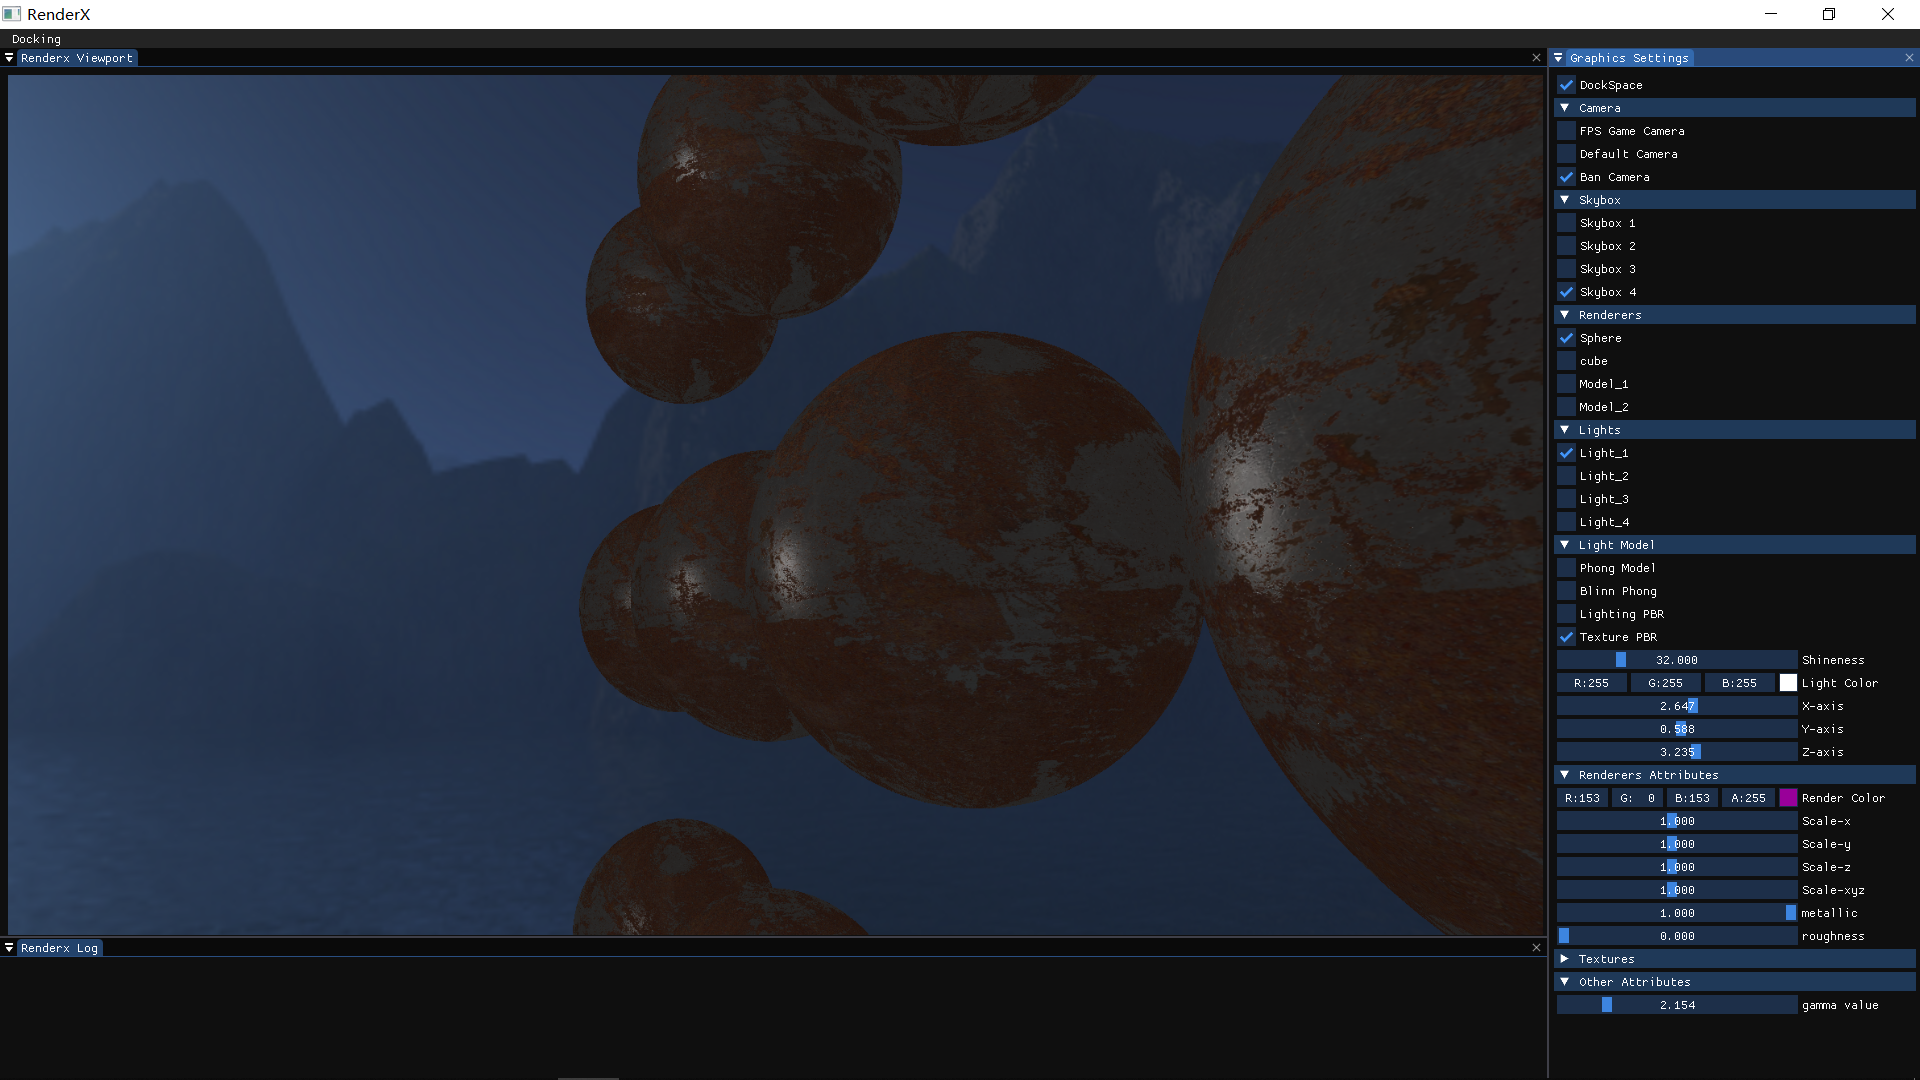
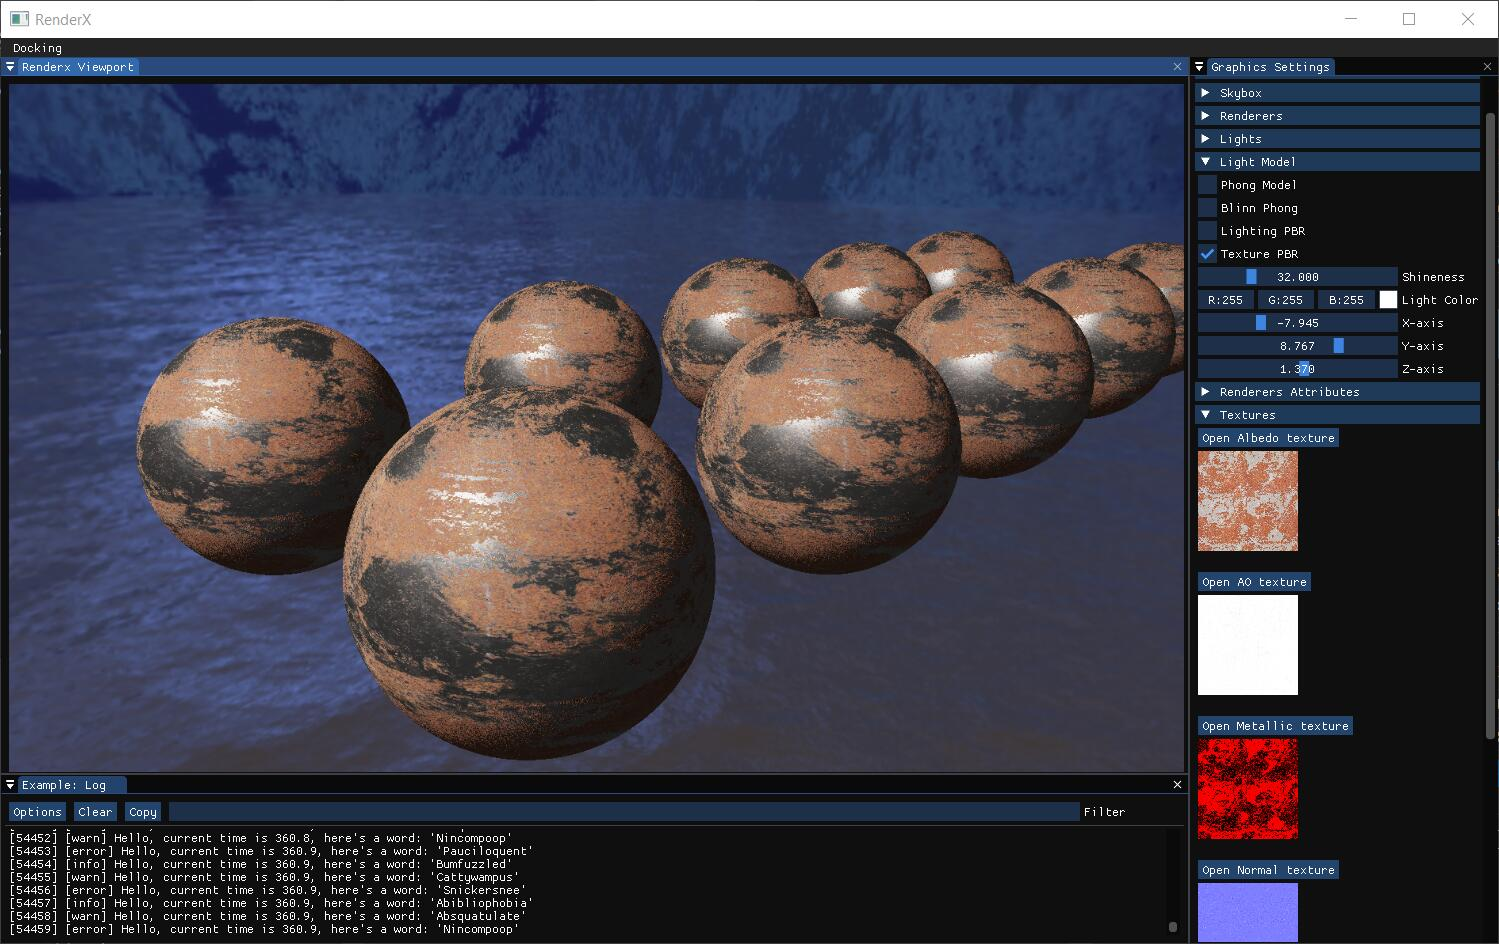
change screenshots and imguilog initialization

diff --git a/RenderX/include/utils/Log.h b/RenderX/include/utils/Log.h
@@ -2,13 +2,158 @@
 #include <iostream>
 #include <string>
 #include <stdarg.h>
+#include "..//..//Core.h"
 
 namespace renderx {
 	namespace utils {
+		struct AppLog
+		{
+			ImGuiTextBuffer     Buf;
+			ImGuiTextFilter     Filter;
+			ImVector<int>       LineOffsets;        // Index to lines offset. We maintain this with AddLog() calls, allowing us to have a random access on lines
+			bool                AutoScroll;     // Keep scrolling if already at the bottom
+
+			AppLog()
+			{
+				AutoScroll = true;
+				Clear();
+			}
+
+			void Clear()
+			{
+				Buf.clear();
+				LineOffsets.clear();
+				LineOffsets.push_back(0);
+			}
+
+			void AddLog(const char* fmt, ...) IM_FMTARGS(2)
+			{
+				int old_size = Buf.size();
+				va_list args;
+				va_start(args, fmt);
+				Buf.appendfv(fmt, args);
+				va_end(args);
+				for (int new_size = Buf.size(); old_size < new_size; old_size++)
+					if (Buf[old_size] == '\n')
+						LineOffsets.push_back(old_size + 1);
+			}
+
+
+			void Draw(const char* title, bool* p_open = NULL)
+			{
+				if (!ImGui::Begin(title, p_open))
+				{
+					ImGui::End();
+					return;
+				}
+
+				// Options menu
+				if (ImGui::BeginPopup("Options"))
+				{
+					ImGui::Checkbox("Auto-scroll", &AutoScroll);
+					ImGui::EndPopup();
+				}
+
+				// Main window
+				if (ImGui::Button("Options"))
+					ImGui::OpenPopup("Options");
+				ImGui::SameLine();
+				bool clear = ImGui::Button("Clear");
+				ImGui::SameLine();
+				bool copy = ImGui::Button("Copy");
+				ImGui::SameLine();
+				Filter.Draw("Filter", -100.0f);
+
+				ImGui::Separator();
+				ImGui::BeginChild("scrolling", ImVec2(0, 0), false, ImGuiWindowFlags_HorizontalScrollbar);
+
+				if (clear)
+					Clear();
+				if (copy)
+					ImGui::LogToClipboard();
+
+				ImGui::PushStyleVar(ImGuiStyleVar_ItemSpacing, ImVec2(0, 0));
+				const char* buf = Buf.begin();
+				const char* buf_end = Buf.end();
+				if (Filter.IsActive())
+				{
+					// In this example we don't use the clipper when Filter is enabled.
+					// This is because we don't have a random access on the result on our filter.
+					// A real application processing logs with ten of thousands of entries may want to store the result of search/filter.
+					// especially if the filtering function is not trivial (e.g. reg-exp).
+					for (int line_no = 0; line_no < LineOffsets.Size; line_no++)
+					{
+						const char* line_start = buf + LineOffsets[line_no];
+						const char* line_end = (line_no + 1 < LineOffsets.Size) ? (buf + LineOffsets[line_no + 1] - 1) : buf_end;
+						if (Filter.PassFilter(line_start, line_end))
+							ImGui::TextUnformatted(line_start, line_end);
+					}
+				}
+
+				else
+				{
+					// The simplest and easy way to display the entire buffer:
+					//   ImGui::TextUnformatted(buf_begin, buf_end);
+					// And it'll just work. TextUnformatted() has specialization for large blob of text and will fast-forward to skip non-visible lines.
+					// Here we instead demonstrate using the clipper to only process lines that are within the visible area.
+					// If you have tens of thousands of items and their processing cost is non-negligible, coarse clipping them on your side is recommended.
+					// Using ImGuiListClipper requires A) random access into your data, and B) items all being the  same height,
+					// both of which we can handle since we an array pointing to the beginning of each line of text.
+					// When using the filter (in the block of code above) we don't have random access into the data to display anymore, which is why we don't use the clipper.
+					// Storing or skimming through the search result would make it possible (and would be recommended if you want to search through tens of thousands of entries)
+					ImGuiListClipper clipper;
+					clipper.Begin(LineOffsets.Size);
+					while (clipper.Step())
+					{
+						for (int line_no = clipper.DisplayStart; line_no < clipper.DisplayEnd; line_no++)
+						{
+							const char* line_start = buf + LineOffsets[line_no];
+							const char* line_end = (line_no + 1 < LineOffsets.Size) ? (buf + LineOffsets[line_no + 1] - 1) : buf_end;
+							ImGui::TextUnformatted(line_start, line_end);
+						}
+					}
+					clipper.End();
+				}
+				ImGui::PopStyleVar();
+
+				if (AutoScroll && ImGui::GetScrollY() >= ImGui::GetScrollMaxY())
+					ImGui::SetScrollHereY(1.0f);
+
+				ImGui::EndChild();
+				ImGui::End();
+			}
+		};
+
+
+
 		class Log
 		{
+		private:
+			AppLog m_AppLog;
+			bool p_open = true;
 		public:
 			static void LogInit(const char* func, const char* file, int line, const char* format, ...);
+			void AppLog()
+			{
+				ImGui::SetNextWindowSize(ImVec2(500, 400), ImGuiCond_FirstUseEver);
+				ImGui::Begin("Example: Log", &p_open);
+				if (ImGui::SmallButton("[Debug] Add 5 entries"))
+				{
+					static int counter = 0;
+					for (int n = 0; n < 5; n++)
+					{
+						const char* categories[3] = { "info", "warn", "error" };
+						const char* words[] = { "Bumfuzzled", "Cattywampus", "Snickersnee", "Abibliophobia", "Absquatulate", "Nincompoop", "Pauciloquent" };
+						m_AppLog.AddLog("[%05d] [%s] Hello, current time is %.1f, here's a word: '%s'\n",
+							ImGui::GetFrameCount(), categories[counter % IM_ARRAYSIZE(categories)], ImGui::GetTime(), words[counter % IM_ARRAYSIZE(words)]);
+						counter++;
+					}
+				}
+				ImGui::End();
+
+				// Actually call in the regular Log helper (which will Begin() into the same window as we just did)
+				m_AppLog.Draw("Example: Log", &p_open);
+			}
 		};
 	}
 }

diff --git a/RenderX/src/graphics/Window.cpp b/RenderX/src/graphics/Window.cpp
@@ -23,20 +23,22 @@ namespace renderx {
 		Window::Window()
 		{
 			if (!init())
-				RDX_INIT_ERROR(init(), "Init failed");
+				std::cout << "filed" << std::endl;
 			else 
-				RDX_INIT_SUCCESS(init(), "Init successfully");
+				std::cout << "success" << std::endl;
 		}
 
 		bool Window::init()
 		{
 			if (glfwInit() != GLFW_TRUE)
 			{
-				RDX_INIT_ERROR(glfwInit(), "Init failed");
+				std::cout << "failed" << std::endl;
 				return false;
 			}
 			else
-				RDX_INIT_SUCCESS(glfwInit(), "Init successfully");
+			{
+				std::cout << "success" << std::endl;
+			}
 			glfwWindowHint(GLFW_CONTEXT_VERSION_MAJOR, 4);
 			glfwWindowHint(GLFW_CONTEXT_VERSION_MINOR, 1);
 			glfwWindowHint(GLFW_OPENGL_PROFILE, GLFW_OPENGL_CORE_PROFILE);
@@ -146,13 +148,12 @@ namespace renderx {
 
 			if (!gladLoadGLLoader(GLADloadproc(glfwGetProcAddress)))
 			{
-				RDX_INIT_ERROR(gladLoadGLLoader, "Failed to initialize GLAD!");
+				std::cout << "failed" << std::endl;
 				glfwTerminate();
 				return false;
 			}
 			else
-				RDX_INIT_SUCCESS(gladLoadGLLoader, "GLAD initialized successfully!");
-		
+				std::cout << "success" << std::endl;
 			glEnable(GL_BLEND);
 			glEnable(GL_DEPTH_TEST);
 			return true;

diff --git a/RenderX/src/graphics/imgui/ImguiLog.cpp b/RenderX/src/graphics/imgui/ImguiLog.cpp
@@ -14,15 +14,30 @@ namespace renderx {
 
 		void ImguiLog::BeginLog()
 		{
-			if (ImGui::Begin("Renderx Log"))
-			{
+		}
 
+		void ImguiLog::Log()
+		{
+			ImGui::SetNextWindowSize(ImVec2(500, 400), ImGuiCond_FirstUseEver);
+			ImGui::Begin("Example: Log", &p_open);
+			static int counter = 0;
+			for (int n = 0; n < 1; n++)
+			{
+				const char* categories[3] = { "info", "warn", "error" };
+				const char* words[] = { "Bumfuzzled", "Cattywampus", "Snickersnee", "Abibliophobia", "Absquatulate", "Nincompoop", "Pauciloquent" };
+				m_AppLog.AddLog("[%05d] [%s] Hello, current time is %.1f, here's a word: '%s'\n",
+					ImGui::GetFrameCount(), categories[counter % IM_ARRAYSIZE(categories)], ImGui::GetTime(), words[counter % IM_ARRAYSIZE(words)]);
+				counter++;
 			}
+			ImGui::End();
+
+			// Actually call in the regular Log helper (which will Begin() into the same window as we just did)
+			m_AppLog.Draw("Example: Log", &p_open);
+
 		}
 
 		void ImguiLog::EndLog()
 		{
-			ImGui::End();
 		}
 
 		

diff --git a/RenderX/include/graphics/imgui/ImguiLog.h b/RenderX/include/graphics/imgui/ImguiLog.h
@@ -3,18 +3,34 @@
 
 namespace renderx {
 	namespace ui {
-		
+		struct REN_API LogKind
+		{
+			std::string initialization;
+			std::string mouse;
+			std::string keyboard;
+			std::string window;
+		};
+
 		class REN_API ImguiLog
 		{
+		private:
+			utils::AppLog m_AppLog;
+			bool p_open = true;
 		public:
 			ImguiLog();
 			~ImguiLog();
 
 			void BeginLog();
+			void Log();
+
 			void EndLog();
-
-
+			
 		};
-
 	}
 }
+
+
+
+
+
+

diff --git a/RenderX/src/entity/FPSCamera.cpp b/RenderX/src/entity/FPSCamera.cpp
@@ -86,7 +86,6 @@ namespace renderx {
 			if (m_CameraAttrib.Zoom >= 45.0f)
 				m_CameraAttrib.Zoom = 45.0f;
 
-			std::cout << mouse->GetMouseScrollOffset().y << std::endl;
 
 		}
 

diff --git a/Application/Application.cpp b/Application/Application.cpp
@@ -107,6 +107,7 @@ void Application::Run()
 		//keyboard movement
 		//imgui log window
 		imguiLog->BeginLog();
+		imguiLog->Log();
 		imguiLog->EndLog();
 		
 		imgui->End();		

diff --git a/RenderX/Core.h b/RenderX/Core.h
@@ -1,4 +1,5 @@
 #pragma once
+#include <iostream>
 #include <memory>
 #include <math.h>	
 #include <sstream>
